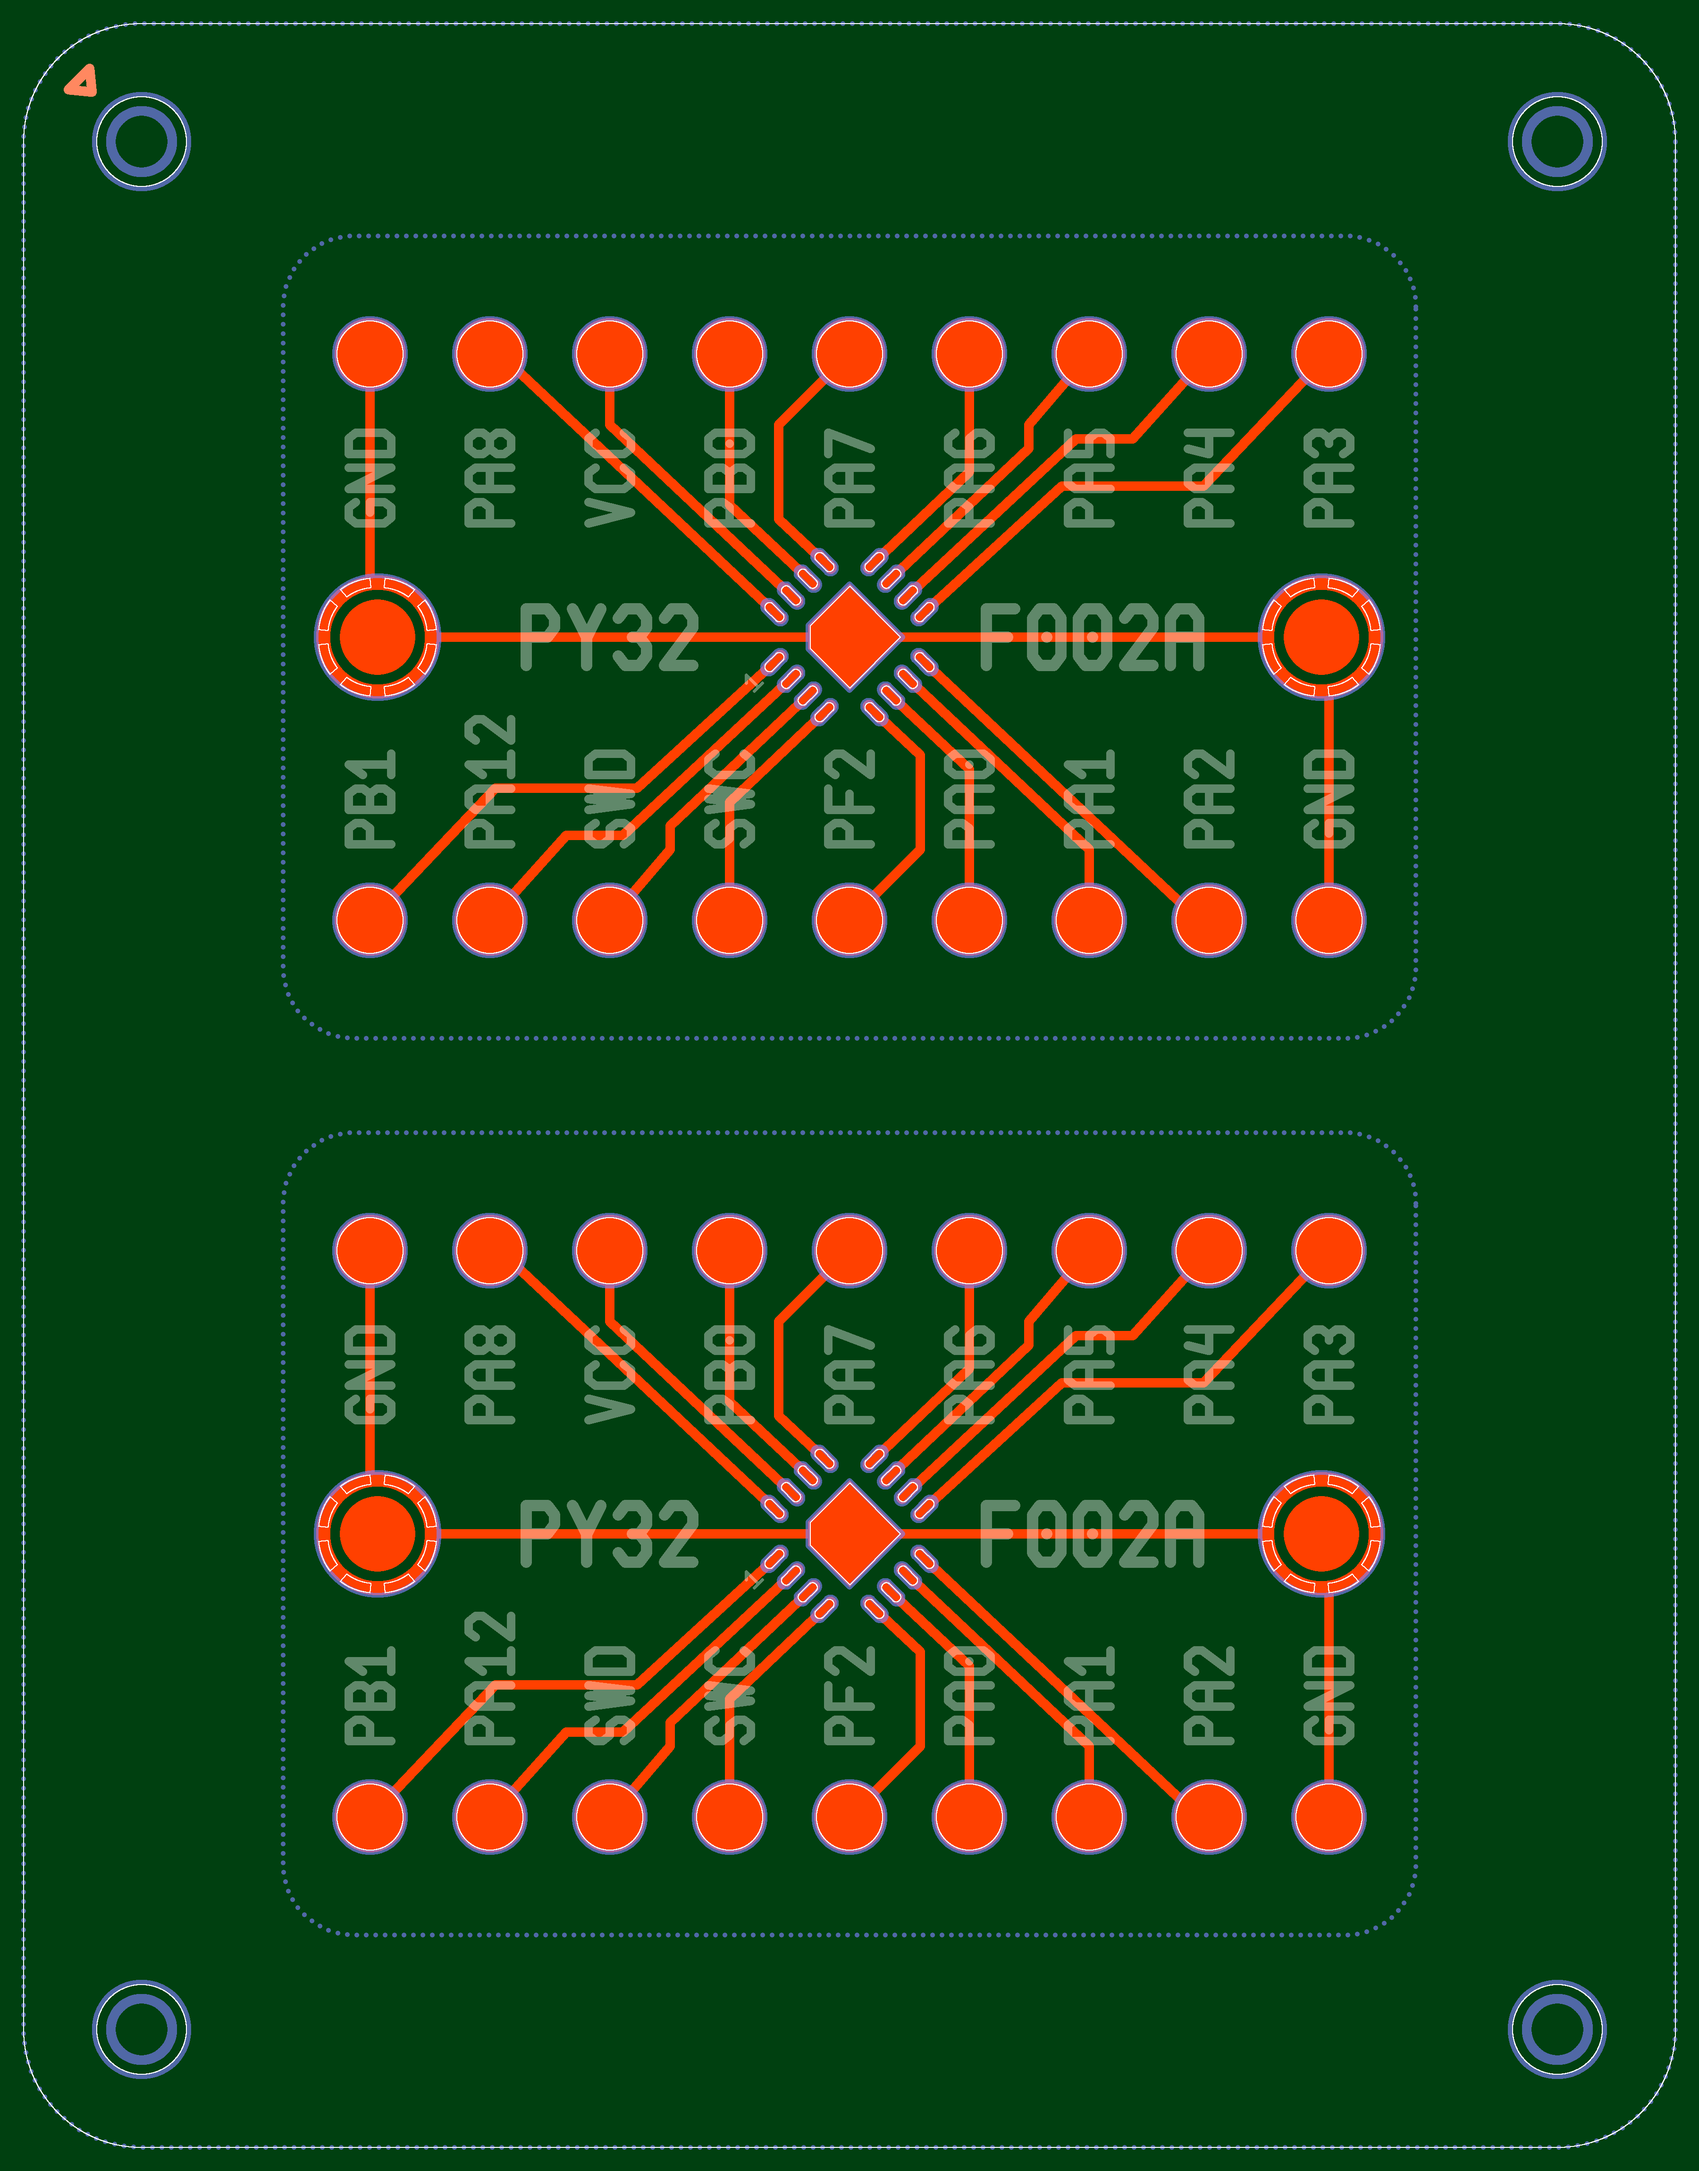
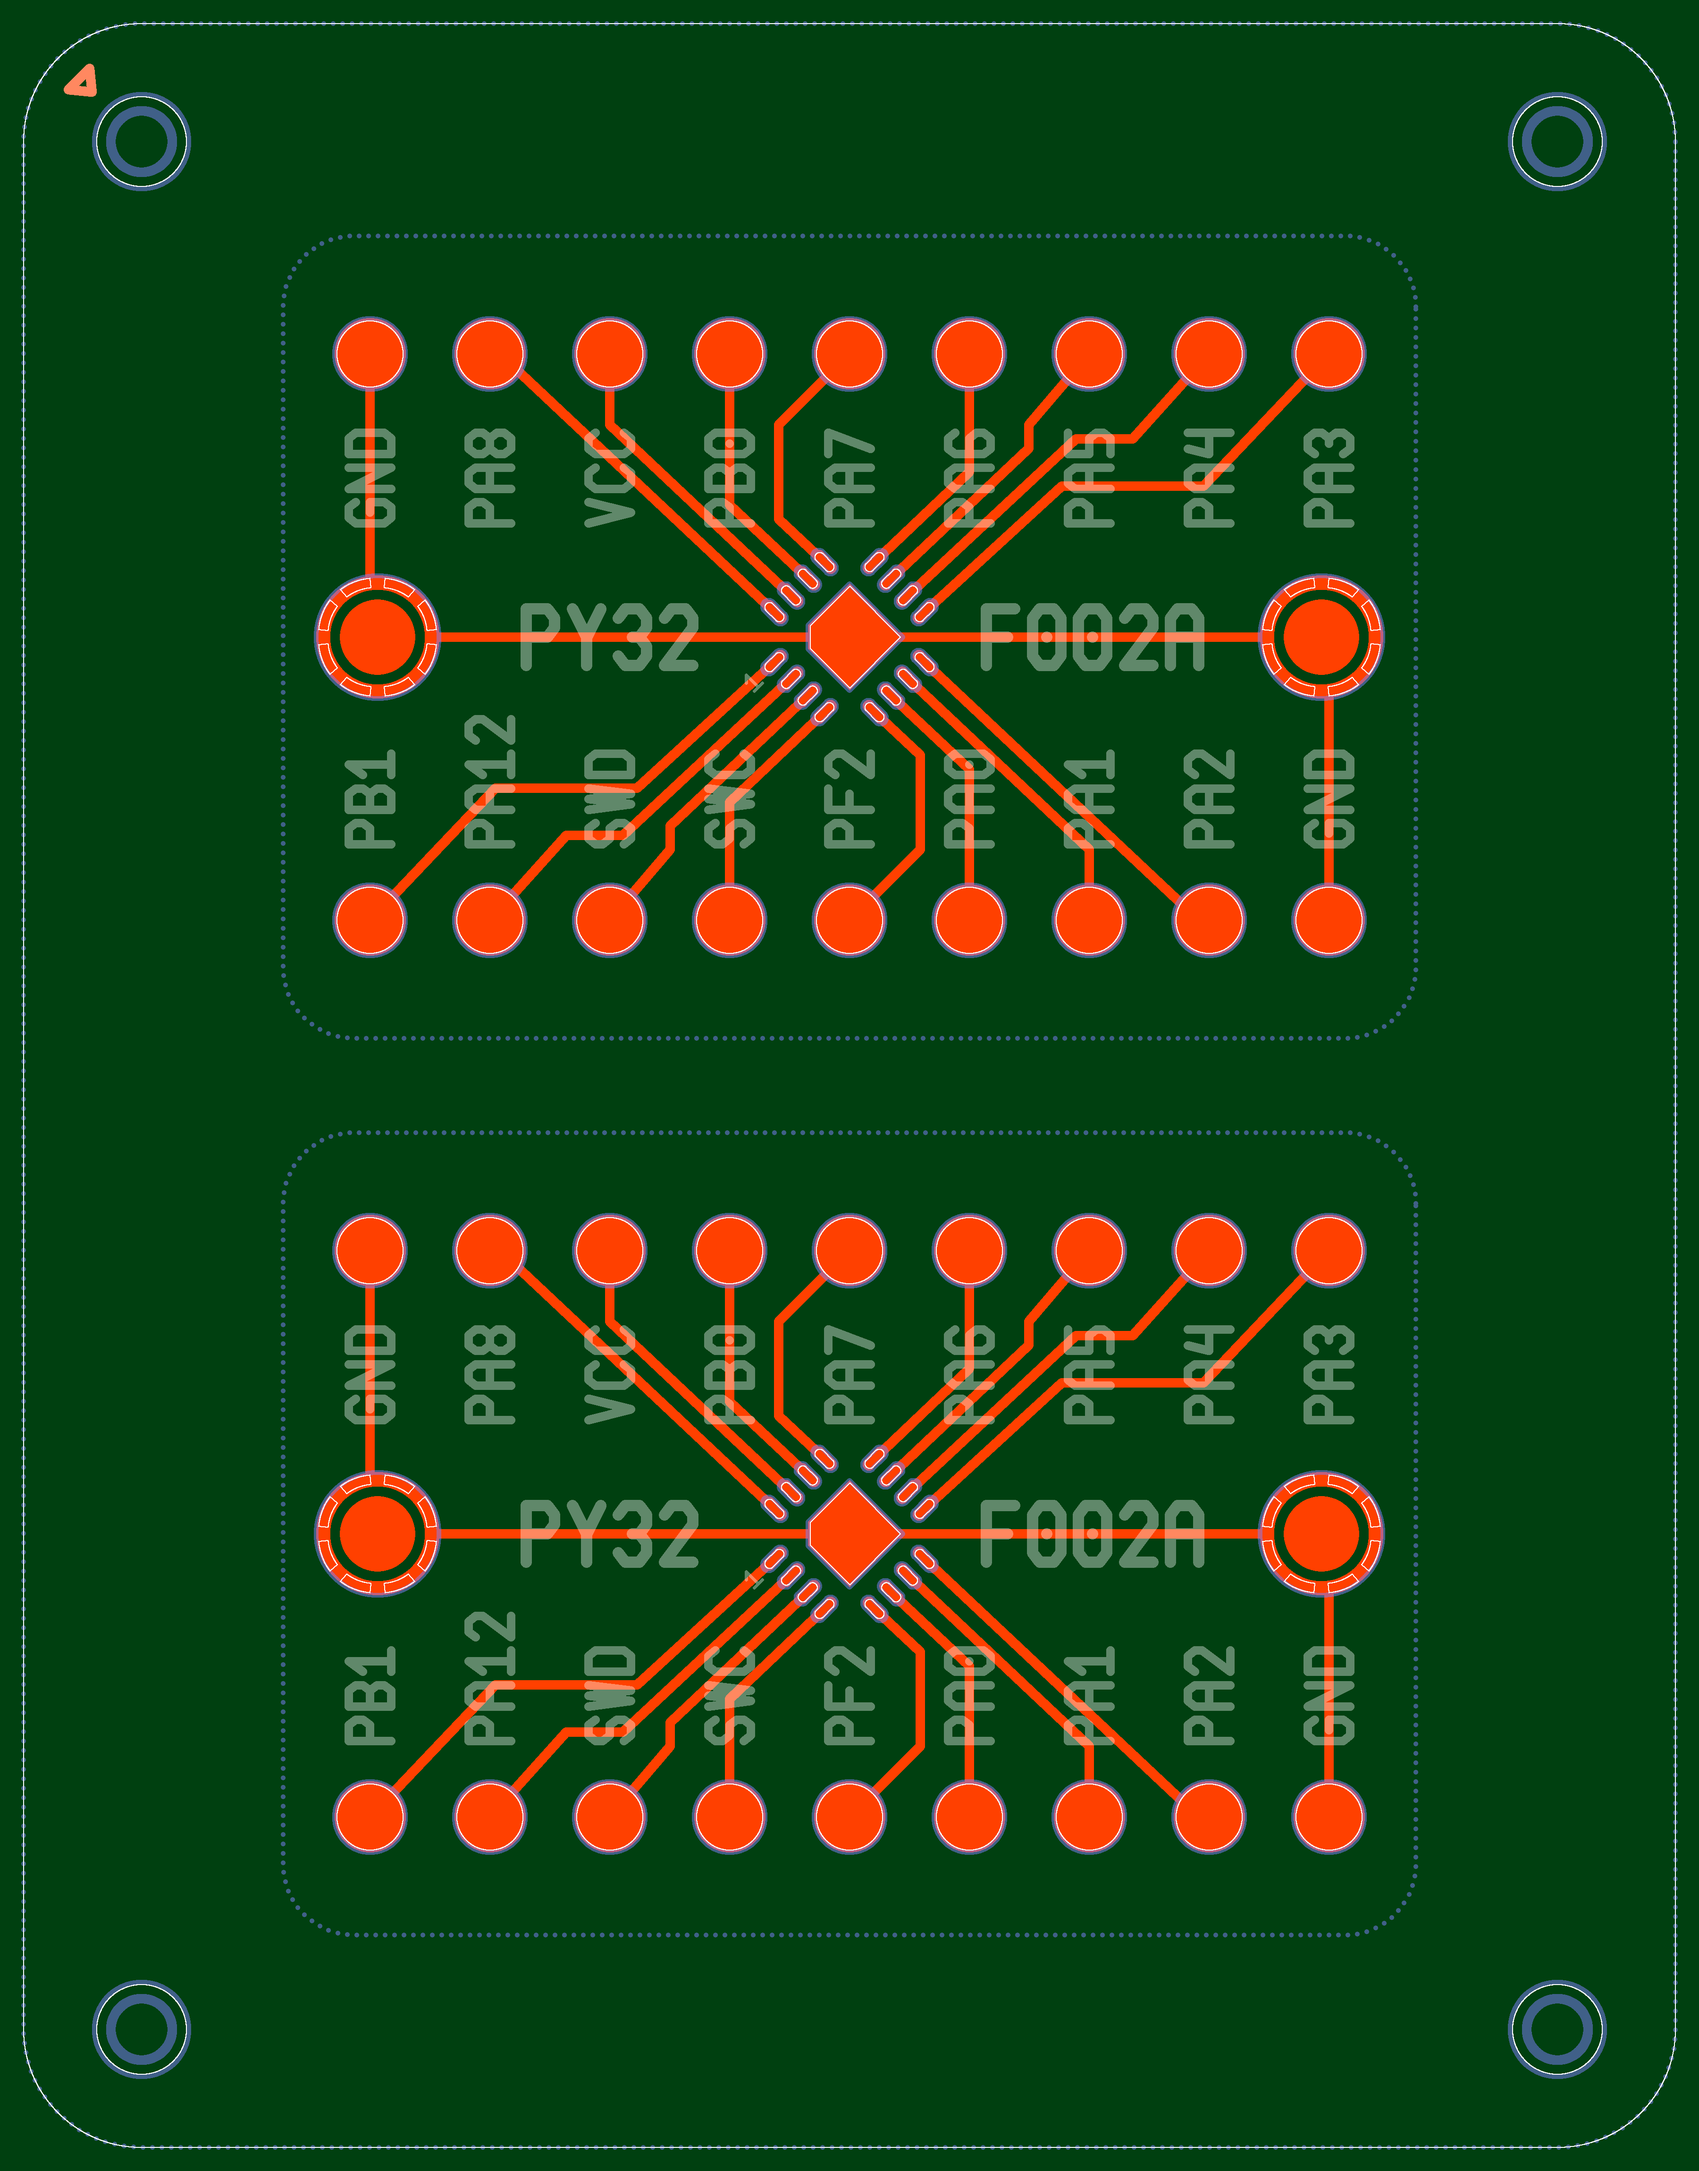
Refactor

diff --git a/eda/pcb.go b/eda/pcb.go
@@ -3,7 +3,6 @@ package eda
 import (
 	"image/color"
 	"temnok/lab/bitmap"
-	"temnok/lab/contour"
 	"temnok/lab/font"
 	"temnok/lab/geom"
 	"temnok/lab/path"
@@ -84,7 +83,7 @@ func (pcb *PCB) HoleNoStencil(hole Path) {
 
 func (pcb *PCB) Track(points []XY) {
 	brush := shape.Circle(int(pcb.trackWidth * pcb.resolution))
-	brush.IterateContour(contour.Lines(points), pcb.bitmapTransform(), pcb.copper.Set1)
+	brush.IterateContour(path.Lines(points), pcb.bitmapTransform(), pcb.copper.Set1)
 }
 
 func (pcb *PCB) Pad(padContours ...Path) {
@@ -146,7 +145,7 @@ func (pcb *PCB) SaveFiles(path string) error {
 		[]*bitmap.Bitmap{pcb.copper, pcb.mask, pcb.silk, pcb.stencil},
 		[][2]color.Color{
 			{color.RGBA{0, 0x40, 0x10, 0xFF}, color.RGBA{0xFF, 0x40, 0, 0xFF}},
-			{color.RGBA{0, 0, 0, 0}, color.RGBA{0x80, 0x80, 0xFF, 0xA0}},
+			{color.RGBA{0, 0, 0, 0}, color.RGBA{0x80, 0x80, 0xFF, 0x80}},
 			{color.RGBA{0, 0, 0, 0}, color.RGBA{0xFF, 0xFF, 0xFF, 0x60}},
 			{color.RGBA{0, 0, 0, 0}, color.RGBA{0xFF, 0xFF, 0xFF, 0xFF}},
 		},
@@ -167,8 +166,8 @@ func (pcb *PCB) technologicalParts() {
 		{15, -20},
 	}
 
-	holder := contour.Circle(1)
-	maskHole := contour.Circle(0.65)
+	holder := path.Circle(1)
+	maskHole := path.Circle(0.65)
 
 	for _, h := range holders {
 		t := geom.Move(h)
@@ -187,6 +186,6 @@ func (pcb *PCB) technologicalParts() {
 	}
 	t := geom.Move(XY{-16.3, 21.3})
 	pcb.Track(key.Transform(t))
-	pcb.SilkContour(0.2, contour.Lines(key).Transform(t))
-	pcb.StencilMark(contour.Lines(key).Transform(t))
+	pcb.SilkContour(0.2, path.Lines(key).Transform(t))
+	pcb.StencilMark(path.Lines(key).Transform(t))
 }

diff --git a/eda/lib/pcbc/py32f002a_qfn16.go b/eda/lib/pcbc/py32f002a_qfn16.go
@@ -1,7 +1,6 @@
 package pcbc
 
 import (
-	"temnok/lab/contour"
 	"temnok/lab/eda"
 	"temnok/lab/eda/lib/pkg/pad"
 	"temnok/lab/eda/lib/pkg/qfn16"
@@ -12,7 +11,7 @@ import (
 type XY = geom.XY
 
 func PY32F002A_QFN16(pcb *eda.PCB, t geom.Transform) {
-	pcb.Cut(contour.RoundRect(24, 17, 1.5).Transform(t))
+	pcb.Cut(path.RoundRect(24, 17, 1.5).Transform(t))
 
 	textScale := geom.Scale(XY{0.75, 1})
 	titleHeight := 2.0
@@ -27,8 +26,8 @@ func PY32F002A_QFN16(pcb *eda.PCB, t geom.Transform) {
 	n := 9
 
 	padT := geom.MoveXY(0, -6)
-	pads := pad.Row(pcb, t.Multiply(padT), contour.Circle(0.75), n, 2.54, 0).Transform(padT)
-	pad.Row(pcb, t.MoveXY(0, 6), contour.Circle(0.75), n, 2.54, 0)
+	pads := pad.Row(pcb, t.Multiply(padT), path.Circle(0.75), n, 2.54, 0).Transform(padT)
+	pad.Row(pcb, t.MoveXY(0, 6), path.Circle(0.75), n, 2.54, 0)
 
 	for _, t := range []geom.Transform{t, t.RotateD(180)} {
 		pcb.Track(path.Path{pads[0], {-7.5, -3.2}, {-4.5, -3.2}, pins[0]}.Transform(t))
@@ -71,9 +70,9 @@ func PY32F002A_QFN16(pcb *eda.PCB, t geom.Transform) {
 
 	for x := -10.0; x <= 10; x += 20 {
 		t := t.Move(XY{x, 0})
-		pcb.PadNoStencil(contour.Circle(1.3).Transform(t))
-		pcb.HoleNoStencil(contour.Circle(0.9).Transform(t))
+		pcb.PadNoStencil(path.Circle(1.3).Transform(t))
+		pcb.HoleNoStencil(path.Circle(0.9).Transform(t))
 
-		pcb.StencilHole(contour.Pie(8, 1.05, 1.3, 10*geom.Degree).Transform(t)...)
+		pcb.StencilHole(path.Pie(8, 1.05, 1.3, 10*geom.Degree).Transform(t)...)
 	}
 }

diff --git a/path/pie.go b/path/pie.go
@@ -1,13 +1,12 @@
-package contour
+package path
 
 import (
 	"math"
 	"temnok/lab/geom"
-	"temnok/lab/path"
 )
 
-func Pie(n int, r1, r2, a1 float64) path.Paths {
-	var res path.Paths
+func Pie(n int, r1, r2, a1 float64) Paths {
+	var res Paths
 
 	angle := 2 * math.Pi / float64(n)
 	for i := 0; i < n; i++ {
@@ -19,7 +18,7 @@ func Pie(n int, r1, r2, a1 float64) path.Paths {
 	return res
 }
 
-func PiePiece(r1, r2, angle float64) path.Path {
+func PiePiece(r1, r2, angle float64) Path {
 	a1 := geom.XY{r1, 0}
 	b1 := geom.XY{r1 * math.Cos(angle), r1 * math.Sin(angle)}
 	p11, p12 := arc(a1, b1)
@@ -28,7 +27,7 @@ func PiePiece(r1, r2, angle float64) path.Path {
 	b2 := geom.XY{r2 * math.Cos(angle), r2 * math.Sin(angle)}
 	p21, p22 := arc(a2, b2)
 
-	return path.Path{
+	return Path{
 		a1, a1,
 		a2, a2, p21,
 		p22, b2, b2,

diff --git a/path/rect.go b/path/rect.go
@@ -1,14 +1,10 @@
-package contour
+package path
 
 import (
-	"math"
 	"temnok/lab/geom"
-	"temnok/lab/path"
 )
 
-var magic = 4 * (math.Sqrt(2) - 1) / 3
-
-func Rect(w, h float64) path.Path {
+func Rect(w, h float64) Path {
 	x, y := w/2, h/2
 
 	return Lines([]geom.XY{
@@ -20,12 +16,12 @@ func Rect(w, h float64) path.Path {
 	})
 }
 
-func RoundRect(w, h, r float64) path.Path {
+func RoundRect(w, h, r float64) Path {
 	x1, y1 := w/2, h/2
 	r = min(r, x1, y1)
 	x0, y0 := x1-r, y1-r
 
-	m := r * magic
+	m := r * roundK
 
 	return []geom.XY{
 		{x1, y0},
@@ -48,7 +44,7 @@ func RoundRect(w, h, r float64) path.Path {
 	}
 }
 
-func CutRect(w, h, r float64) path.Path {
+func CutRect(w, h, r float64) Path {
 	x, y := w/2, h/2
 	return Lines([]geom.XY{
 		{x - r, y}, {-x + r, y},

diff --git a/eda/lib/pkg/qfn16/qfn.go b/eda/lib/pkg/qfn16/qfn.go
@@ -1,7 +1,6 @@
 package qfn16
 
 import (
-	"temnok/lab/contour"
 	"temnok/lab/eda"
 	"temnok/lab/geom"
 	"temnok/lab/path"
@@ -49,8 +48,8 @@ var PadContours = path.Paths{
 }[1:]
 
 var (
-	hPad = contour.RoundRect(0.6, 0.25, 0.12)
-	vPad = contour.RoundRect(0.25, 0.6, 0.12)
+	hPad = path.RoundRect(0.6, 0.25, 0.12)
+	vPad = path.RoundRect(0.25, 0.6, 0.12)
 )
 
 func init() {
@@ -61,7 +60,7 @@ func init() {
 
 func keyedRect(w, h, k float64) []geom.XY {
 	x, y := w/2, h/2
-	return contour.Lines([]geom.XY{{-x + k, y}, {x, y}, {x, -y}, {-x, -y}, {-x, y - k}, {-x + k, y}})
+	return path.Lines([]geom.XY{{-x + k, y}, {x, y}, {x, -y}, {-x, -y}, {-x, y - k}, {-x + k, y}})
 }
 
 func Add(pcb *eda.PCB, t geom.Transform) path.Path {

diff --git a/path/resize.go b/path/resize.go
@@ -1,0 +1,33 @@
+package path
+
+import "temnok/lab/geom"
+
+func (path Path) Resize(delta float64) Path {
+	mi, ma := path.minMax()
+	kx := (ma.X - mi.X + delta) / (ma.X - mi.X)
+	ky := (ma.Y - mi.Y + delta) / (ma.Y - mi.Y)
+	center := geom.XY{(mi.X + ma.X) / 2, (mi.Y + ma.Y) / 2}
+
+	res := make([]geom.XY, len(path))
+
+	for i, p := range path {
+		res[i] = geom.XY{(1-kx)*center.X + kx*p.X, (1-ky)*center.Y + ky*p.Y}
+	}
+
+	return res
+}
+
+func (path Path) minMax() (mi, ma geom.XY) {
+	if len(path) > 0 {
+		mi, ma = path[0], path[0]
+
+		for _, p := range path {
+			mi.X = min(mi.X, p.X)
+			mi.Y = min(mi.Y, p.Y)
+			ma.X = max(ma.X, p.X)
+			ma.Y = max(ma.Y, p.Y)
+		}
+	}
+
+	return
+}

diff --git a/shape/brush_test.go b/shape/brush_test.go
@@ -4,8 +4,8 @@ import (
 	"github.com/stretchr/testify/assert"
 	"image/color"
 	"temnok/lab/bitmap"
-	"temnok/lab/contour"
 	"temnok/lab/geom"
+	"temnok/lab/path"
 	"temnok/lab/util"
 	"testing"
 )
@@ -17,7 +17,7 @@ func TestBrushes(t *testing.T) {
 		circle := Circle(d)
 		circle.IterateRowsXY(50*d, 50, bm.Set1)
 
-		rect := FromContour(contour.RoundRect(float64(d), float64(d)*2, 1+float64(d)/4), geom.Identity())
+		rect := FromContour(path.RoundRect(float64(d), float64(d)*2, 1+float64(d)/4), geom.Identity())
 		rect.IterateRowsXY(50*d, 100, bm.Set1)
 	}
 

diff --git a/eda/pcb_stencil.go b/eda/pcb_stencil.go
@@ -1,7 +1,6 @@
 package eda
 
 import (
-	"temnok/lab/contour"
 	"temnok/lab/lbrn"
 	"temnok/lab/shape"
 )
@@ -65,7 +64,7 @@ func (pcb *PCB) SaveStencil(filename string) error {
 	}
 
 	for _, hole := range pcb.stencilHoles {
-		resizedHole := contour.Resize(hole, -0.1)
+		resizedHole := hole.Resize(-0.1)
 		p.Shape = append(p.Shape, lbrn.NewPath(1, lbrnCenter, resizedHole))
 		brush.IterateContour(resizedHole, pcb.bitmapTransform(), pcb.stencil.Set1)
 	}

diff --git a/pcbc/pcb_test.go b/pcbc/pcb_test.go
@@ -2,16 +2,16 @@ package pcbc
 
 import (
 	"github.com/stretchr/testify/assert"
-	"temnok/lab/contour"
 	"temnok/lab/eda"
 	"temnok/lab/eda/lib/pcbc"
 	"temnok/lab/geom"
+	"temnok/lab/path"
 	"testing"
 )
 
 func TestPCB(t *testing.T) {
 	pcb := eda.NewPCB(36, 46)
-	board := contour.RoundRect(35, 45, 2.5)
+	board := path.RoundRect(35, 45, 2.5)
 	pcb.Cut(board)
 	pcb.StencilCut(board)
 

diff --git a/path/circle.go b/path/circle.go
@@ -1,13 +1,13 @@
-package contour
+package path
 
-import (
-	"temnok/lab/path"
-)
+import "math"
 
-func Circle(r float64) path.Path {
-	m := r * magic
+var roundK = 4 * (math.Sqrt(2) - 1) / 3
 
-	return path.Path{
+func Circle(r float64) Path {
+	m := r * roundK
+
+	return Path{
 		{r, 0},
 		{r, m}, {m, r},
 		{0, r},

diff --git a/path/lines.go b/path/lines.go
@@ -1,0 +1,19 @@
+package path
+
+import (
+	"temnok/lab/geom"
+)
+
+func Lines(points []geom.XY) Path {
+	if len(points) == 0 {
+		return nil
+	}
+
+	path := Path{points[0]}
+
+	for _, p := range points[1:] {
+		path = append(path, path[len(path)-1], p, p)
+	}
+
+	return path
+}
